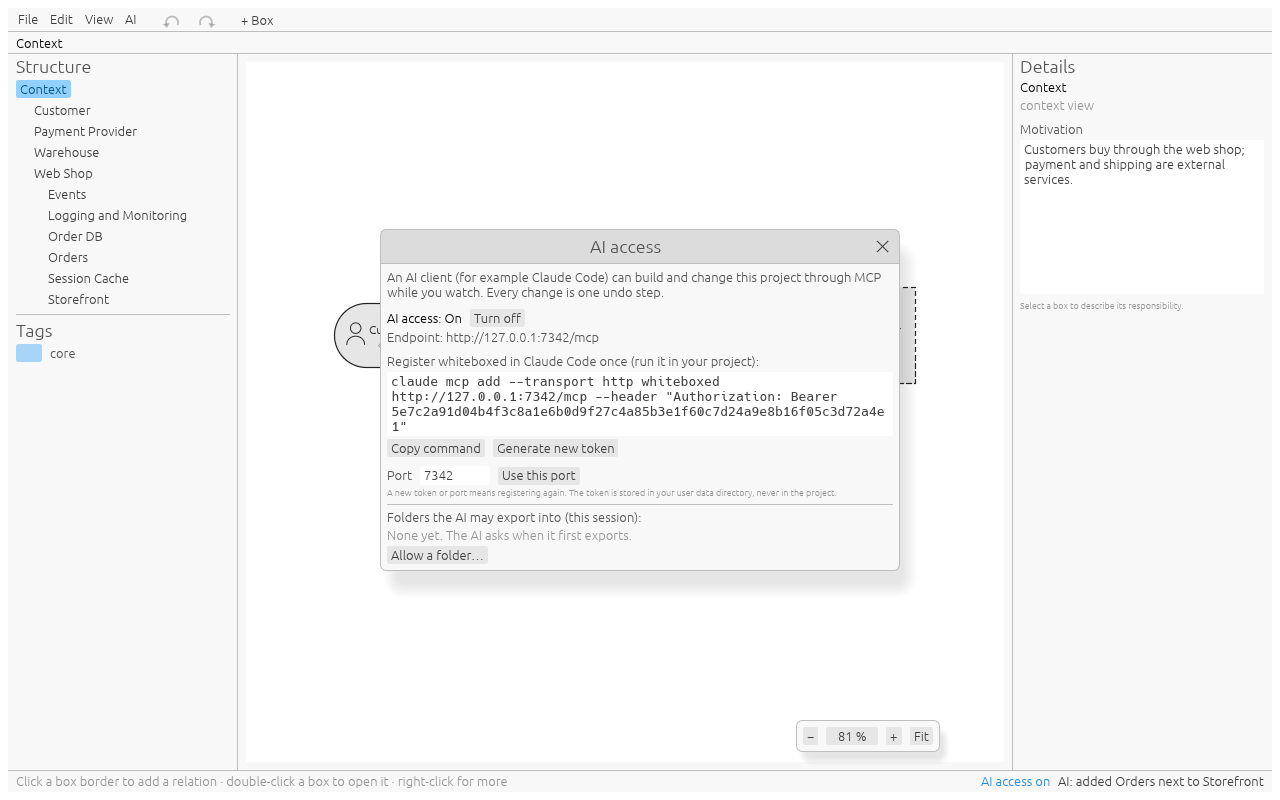
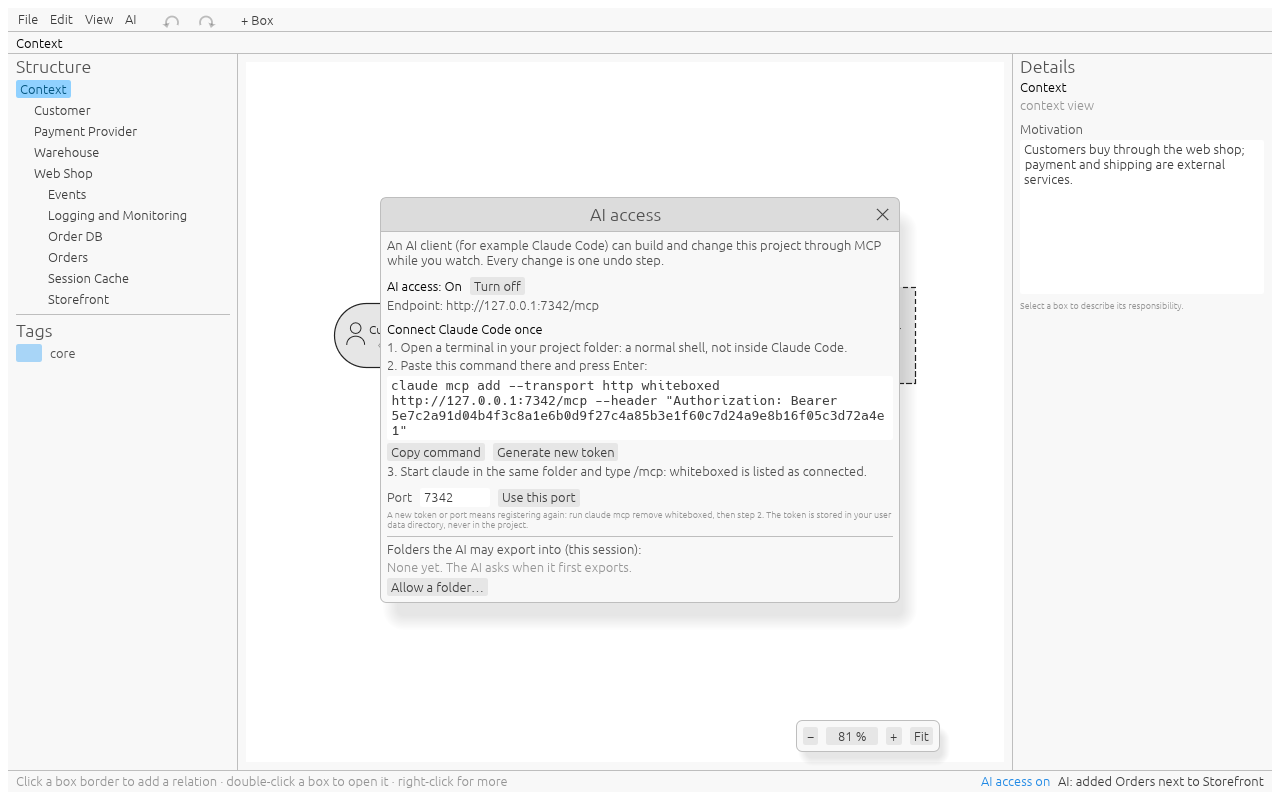
Explain connecting Claude Code in three steps in the AI dialog

Changed region(s): [[0.2812, 0.2188, 0.7188, 0.7812]]

diff --git a/src/ui/ai.rs b/src/ui/ai.rs
@@ -246,23 +246,37 @@ impl Ai {
             ui.label(RichText::new(e).color(egui::Color32::from_rgb(0xc6, 0x28, 0x28)));
         }
         ui.add_space(6.0);
-        ui.label("Register whiteboxed in Claude Code once (run it in your project):");
-        if let Some(cmd) = command {
-            let mut shown = cmd.clone();
-            ui.add(
-                egui::TextEdit::multiline(&mut shown)
-                    .desired_rows(2)
-                    .desired_width(f32::INFINITY)
-                    .font(egui::TextStyle::Monospace),
-            );
-            ui.horizontal(|ui| {
-                if ui.button("Copy command").clicked() {
-                    action = Some(DialogAction::Copy(cmd.clone()));
-                }
-                if ui.button("Generate new token").clicked() {
-                    action = Some(DialogAction::NewToken);
-                }
-            });
+        ui.label(RichText::new("Connect Claude Code once").strong());
+        match command {
+            Some(cmd) => {
+                ui.label(
+                    "1. Open a terminal in your project folder: a normal shell, not inside \
+                     Claude Code.",
+                );
+                ui.label("2. Paste this command there and press Enter:");
+                let mut shown = cmd.clone();
+                ui.add(
+                    egui::TextEdit::multiline(&mut shown)
+                        .desired_rows(2)
+                        .desired_width(f32::INFINITY)
+                        .font(egui::TextStyle::Monospace),
+                );
+                ui.horizontal(|ui| {
+                    if ui.button("Copy command").clicked() {
+                        action = Some(DialogAction::Copy(cmd.clone()));
+                    }
+                    if ui.button("Generate new token").clicked() {
+                        action = Some(DialogAction::NewToken);
+                    }
+                });
+                ui.label(
+                    "3. Start claude in the same folder and type /mcp: whiteboxed is listed \
+                     as connected.",
+                );
+            }
+            None => {
+                ui.label(RichText::new("Turn AI access on to get the command.").weak());
+            }
         }
         ui.add_space(6.0);
         ui.horizontal(|ui| {
@@ -277,8 +291,9 @@ impl Ai {
         });
         ui.label(
             RichText::new(
-                "A new token or port means registering again. The token is stored in your \
-                 user data directory, never in the project.",
+                "A new token or port means registering again: run claude mcp remove \
+                 whiteboxed, then step 2. The token is stored in your user data directory, \
+                 never in the project.",
             )
             .weak()
             .small(),

diff --git a/tests/ui.rs b/tests/ui.rs
@@ -556,6 +556,13 @@ fn turning_ai_access_on_shows_how_to_connect() -> TestResult {
     let cmd = h.state_mut().ai.claude_command().ok_or("command")?;
     assert!(cmd.starts_with("claude mcp add --transport http whiteboxed http://127.0.0.1:"));
     assert!(cmd.ends_with("--header \"Authorization: Bearer tok-123\""));
+    for step in [
+        "1. Open a terminal",
+        "2. Paste this command",
+        "3. Start claude",
+    ] {
+        assert!(h.query_by_label_contains(step).is_some(), "{step}");
+    }
     button(&h, "Turn off").click();
     h.run();
     assert!(!h.state().ai.is_on());

diff --git a/docs/guide.md b/docs/guide.md
@@ -248,6 +248,10 @@ its editing operations as [MCP](https://modelcontextprotocol.io) tools on
 
 ![The AI access dialog with the endpoint and the command for Claude Code](screenshots/ai-access.png)
 
+- **Connecting Claude Code** takes three steps, listed in the dialog: open a terminal
+  in your project folder (a normal shell, not inside Claude Code), paste the copied
+  `claude mcp add` command there, then start `claude` and check with `/mcp` that
+  whiteboxed is connected.
 - **Off by default.** **AI > Allow AI access** turns it on until you turn it off or
   quit; the next start begins with it off.
 - **Token.** Every request needs the access token, as `Authorization: Bearer <token>`
@@ -273,19 +277,19 @@ its editing operations as [MCP](https://modelcontextprotocol.io) tools on
 | `get_model`          | The whole project as JSON                                         |
 | `get_diagram`        | One diagram: boxes, cells, lines, open and unassigned ends        |
 | `render_diagram`     | One diagram as PNG, as you see it                                 |
-| `add_box`            | A box without relation                                            |
+| `add_box`            | A box without relation, or with `band: true` a cross-cutting band |
 | `connect_new`        | A new box on one side of a box, connected                         |
 | `connect_existing`   | Two boxes of a diagram; `placement` move (default) or keep        |
 | `add_stub`           | A relation that leaves the level                                  |
 | `connect_open_end`   | A stub's open end to a box                                        |
-| `attach`             | A relation from the level above to the box inside that handles it |
+| `attach`             | A relation from the level above to a box inside; again: fans out  |
 | `edit_box`           | Name, type, tag                                                   |
-| `edit_relation`      | Direction, text                                                   |
+| `edit_relation`      | Direction, text, short label, line style, sides                   |
 | `set_responsibility` | A box's responsibility                                            |
 | `set_motivation`     | A diagram's motivation                                            |
 | `move_box`           | A box to another grid cell                                        |
 | `delete_box`         | A box; one with content only with `recursive: true`               |
-| `delete_relation`    | A relation, or with `detach_in` only its end in a whitebox        |
+| `delete_relation`    | A relation; with `detach_in` (and `landing`) only inside there    |
 | `export_docs`        | Images, arc42 texts and index into a folder you allowed           |
 
 Boxes are addressed by id or by their path of names from the context view, as a list

diff --git a/CHANGELOG.md b/CHANGELOG.md
@@ -19,6 +19,7 @@ The format is based on [Keep a Changelog](https://keepachangelog.com/en/1.1.0/).
 
 ### Changed
 
+- The AI dialog explains connecting Claude Code in three steps: a terminal in the project folder (not inside Claude Code), the copied command, then claude and /mcp.
 - One File > Export… dialog replaces the four export entries: this diagram or all, SVG, PNG at 1×/2×/3×, AsciiDoc, Markdown or no text, and the target folder. The choices are kept in the project file, the folder relative to the project file inside its repository.
 - Lines between boxes that face each other are straight, and relations from the level above enter a whitebox opposite the box that takes them, instead of being spread evenly along the side.
 - Lines on one side of a box keep 40 px apart instead of 26 px, so a box visibly grows from its second relation on a side; the minimum box size stays.

diff --git a/docs/workflows.md b/docs/workflows.md
@@ -132,7 +132,8 @@ You need Claude Code (or another MCP client) and the repository it should read.
 
 1. Open or start a project in whiteboxed, then **AI > Allow AI access**. The dialog
    shows the endpoint and a command.
-2. **Copy command** and run it once in a terminal inside the repository:
+2. **Copy command** and run it once in a terminal inside the repository. Use a normal
+   shell: typed inside a running Claude Code session it does nothing.
 
    ```sh
    claude mcp add --transport http whiteboxed http://127.0.0.1:7342/mcp --header "Authorization: Bearer <token>"
